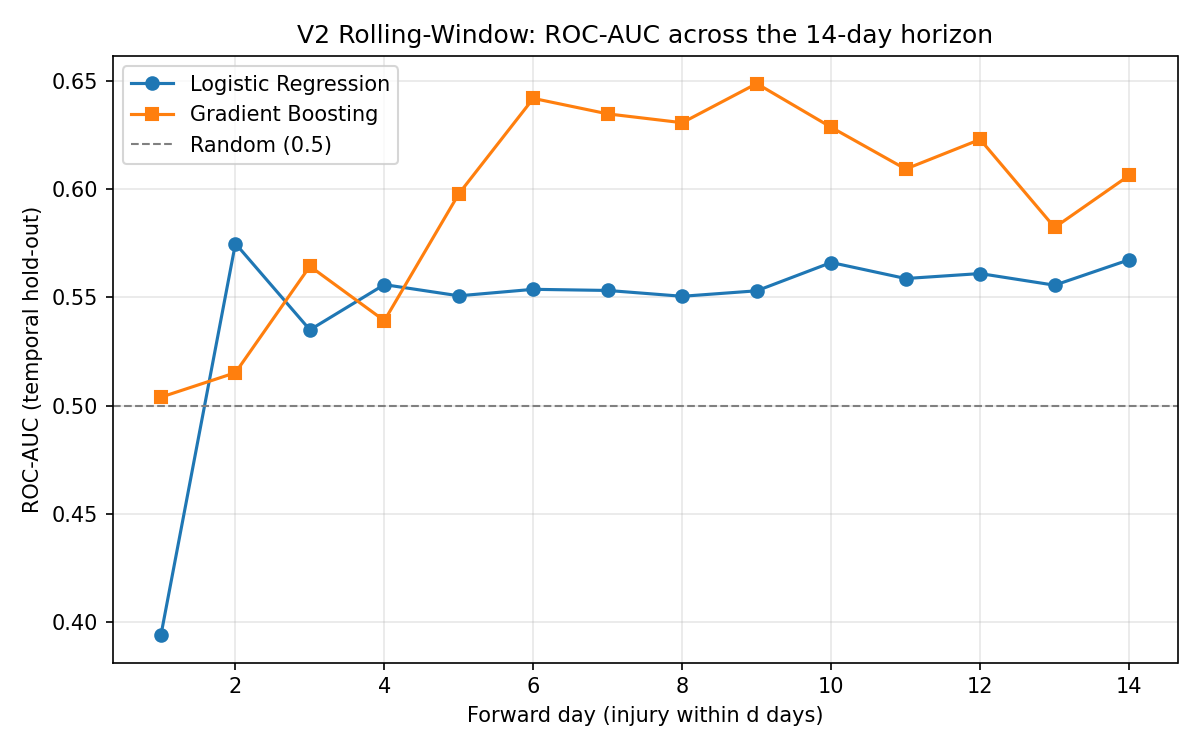
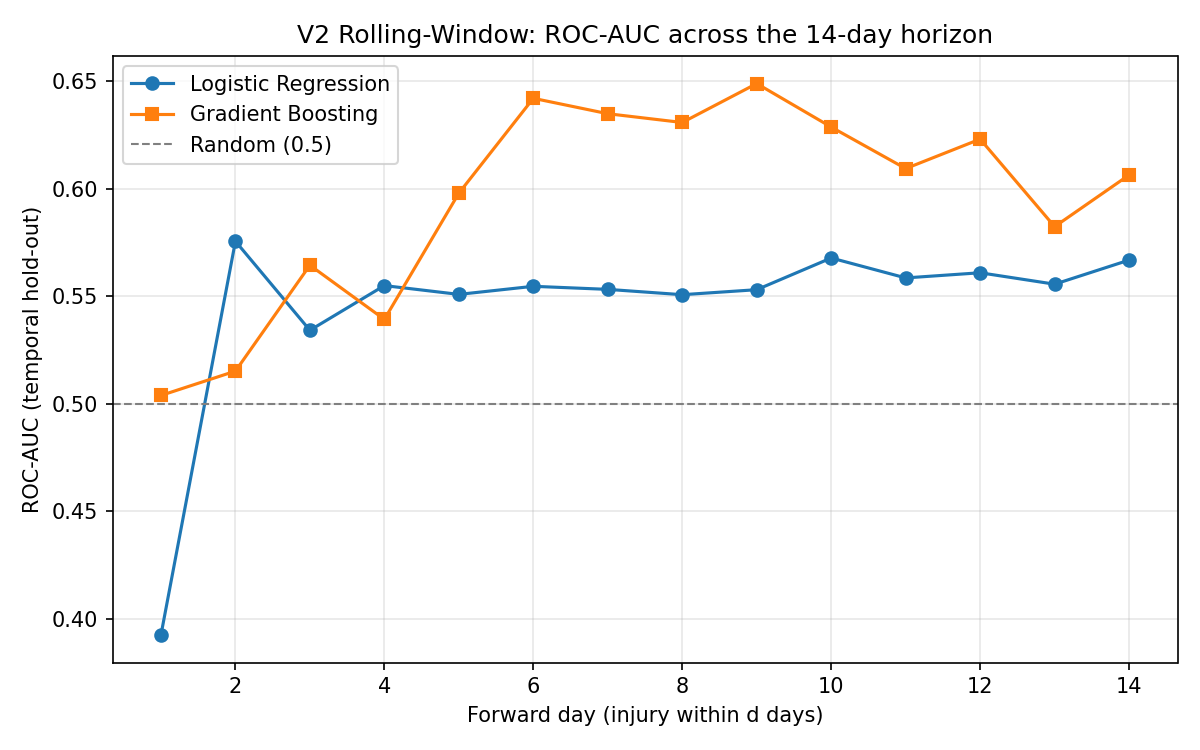
meeting update

diff --git a/test_compare.py b/test_compare.py
@@ -1,0 +1,69 @@
+import pandas as pd
+from ball.pipeline import data, config, targets
+import numpy as np
+
+# Pipeline version
+df_pipe = pd.read_csv("artifacts/dataset.csv")
+
+# V2 script version
+df = pd.read_csv(config.SAMPLE_MODEL_INPUT_CSV)
+df.columns = [c.lower() for c in df.columns]
+gd = pd.read_csv(config.SAMPLE_GAME_DATES_CSV)
+gd.columns = [c.lower() for c in gd.columns]
+gd["game_date"] = pd.to_datetime(gd["game_date"])
+df = df.merge(gd, on="game_id", how="left")
+df["minutes"] = df["minutes"].apply(data.parse_minutes)
+for c in data.RAW_FEATURES:
+    if c in df.columns:
+        df[c] = pd.to_numeric(df[c], errors="coerce")
+df = df.dropna(subset=["game_date"]).sort_values(["player_id", "game_date"]).reset_index(drop=True)
+# V2 logic
+AGG_STATS = ["mean", "std", "min", "max"]
+LOOKBACK_DAYS = 14
+FORWARD_DAYS = 14
+
+feat_cols = []
+for stat in AGG_STATS:
+    for c in data.RAW_FEATURES:
+        if c in df.columns:
+            feat_cols.append(f"{c}_{stat}")
+
+rows, target_rows, dates, pids = [], [], [], []
+present = [c for c in data.RAW_FEATURES if c in df.columns]
+
+for pid, grp in df.groupby("player_id"):
+    grp = grp.sort_values("game_date").reset_index(drop=True)
+    injury_dates = grp.loc[grp["is_injured"] == 1, "game_date"].tolist()
+    gdates = grp["game_date"].values
+    for i in range(len(grp)):
+        row_date = grp.iloc[i]["game_date"]
+        start = row_date - pd.Timedelta(days=LOOKBACK_DAYS)
+        mask = (grp["game_date"] <= row_date) & (grp["game_date"] >= start)
+        window = grp.loc[mask, present]
+        if window.empty:
+            continue
+        agg = window.agg(AGG_STATS)
+        feat = {}
+        for stat in AGG_STATS:
+            for c in present:
+                v = agg.loc[stat, c]
+                feat[f"{c}_{stat}"] = 0.0 if pd.isna(v) else float(v)
+        tgt = {}
+        for d in range(1, FORWARD_DAYS + 1):
+            end = row_date + pd.Timedelta(days=d)
+            tgt[f"injured_within_{d}"] = int(any((idt > row_date) and (idt <= end) for idt in injury_dates))
+        rows.append(feat)
+        target_rows.append(tgt)
+        dates.append(row_date)
+        pids.append(pid)
+
+Xdf = pd.DataFrame(rows).reindex(columns=feat_cols).fillna(0.0)
+Tdf = pd.DataFrame(target_rows)
+df_v2 = pd.concat([pd.DataFrame({"player_id": pids, "game_date": dates}), Xdf, Tdf], axis=1)
+df_v2["game_date"] = df_v2["game_date"].dt.strftime('%Y-%m-%d')
+print(df_pipe.shape)
+print(df_v2.shape)
+
+for c in df_v2.columns:
+    if not df_pipe[c].equals(df_v2[c]):
+        print(f"Mismatch in {c}")

diff --git a/src/ball/pipeline/features.py b/src/ball/pipeline/features.py
@@ -21,14 +21,20 @@ from ball.pipeline import config, data, targets
 
 AGG_STATS = ["mean", "std", "min", "max"]
 
+# Derived window-level features from the feature engineering table that are
+# computable from current data without external sources.
+EXTRA_FEATURES = ["games_played_count", "minutes_total", "back_to_back_count"]
+
 
 def feature_columns(df_columns) -> list:
-    """Stat-major aggregate column order: <feature>_mean … then _std, _min, _max."""
+    """Stat-major aggregate column order: <feature>_mean … then _std, _min, _max,
+    followed by derived window-level counts."""
     cols = []
     for stat in AGG_STATS:
         for c in data.RAW_FEATURES:
             if c in df_columns:
                 cols.append(f"{c}_{stat}")
+    cols.extend(EXTRA_FEATURES)
     return cols
 
 
@@ -42,6 +48,24 @@ def aggregate_window(window: pd.DataFrame, present: list) -> dict:
             v = agg.loc[stat, c]
             feat[f"{c}_{stat}"] = 0.0 if pd.isna(v) else float(v)
     return feat
+
+
+def compute_extra_features(window: pd.DataFrame) -> dict:
+    """Derived window-level counts: games played, total minutes, back-to-back sets."""
+    games_played = float(len(window))
+    minutes_total = float(window["minutes"].sum()) if "minutes" in window.columns else 0.0
+
+    # Back-to-back: count pairs of consecutive game dates separated by exactly 1 day.
+    back_to_back = 0
+    if "game_date" in window.columns and len(window) > 1:
+        dates = window["game_date"].sort_values().reset_index(drop=True)
+        back_to_back = int((dates.diff().dt.days == 1).sum())
+
+    return {
+        "games_played_count": games_played,
+        "minutes_total": minutes_total,
+        "back_to_back_count": float(back_to_back),
+    }
 
 
 def build_dataset(df: pd.DataFrame, lookback_days: int, forward_days: int) -> pd.DataFrame:
@@ -61,7 +85,7 @@ def build_dataset(df: pd.DataFrame, lookback_days: int, forward_days: int) -> pd
             window = grp.loc[mask]
             if window.empty:
                 continue
-            rows.append(aggregate_window(window, present))
+            rows.append({**aggregate_window(window, present), **compute_extra_features(window)})
             target_rows.append(targets.build_target_row(row_date, injury_dates, forward_days))
             dates.append(row_date)
             pids.append(pid)

diff --git a/src/ball/models/injury_prediction/v2/evaluate_v2.py b/src/ball/models/injury_prediction/v2/evaluate_v2.py
@@ -7,6 +7,7 @@ Runs entirely from local CSVs (no database required):
 
 Produces:
   1. V1 game-level classification baseline (the "naive" approach the README pivots away from)
+from threadpoolctl import threadpool_limits
   2. V2 rolling-window models: per-forward-day ROC-AUC for LogReg vs GradientBoosting
   3. Figures saved to docs/presentation/figures/ for direct drop-in to slides
   4. A results table printed to stdout and written to docs/presentation/v2_results.csv
@@ -188,8 +189,9 @@ def evaluate_v2(Xdf, Tdf, dser):
             row.update({"lr_auc": np.nan, "gb_auc": np.nan})
             results.append(row)
             continue
-        lr = LogisticRegression(max_iter=2000, class_weight="balanced", random_state=RANDOM_STATE)
-        lr.fit(Xtr, ytr)
+        with threadpool_limits(limits=1):
+            lr = LogisticRegression(max_iter=2000, class_weight="balanced", random_state=RANDOM_STATE)
+            lr.fit(Xtr, ytr)
         row["lr_auc"] = float(roc_auc_score(yte, lr.predict_proba(Xte)[:, 1]))
 
         gb = GradientBoostingClassifier(random_state=RANDOM_STATE)
